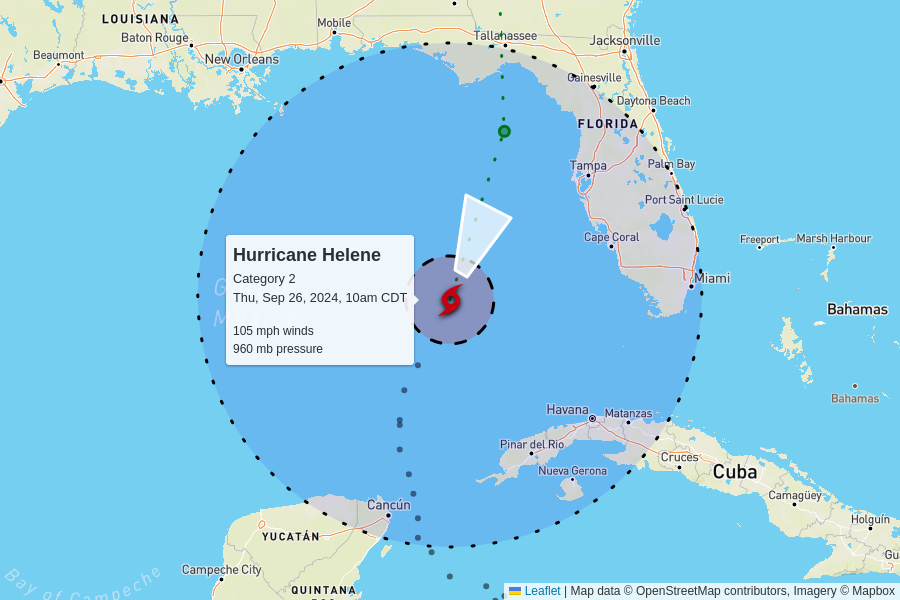
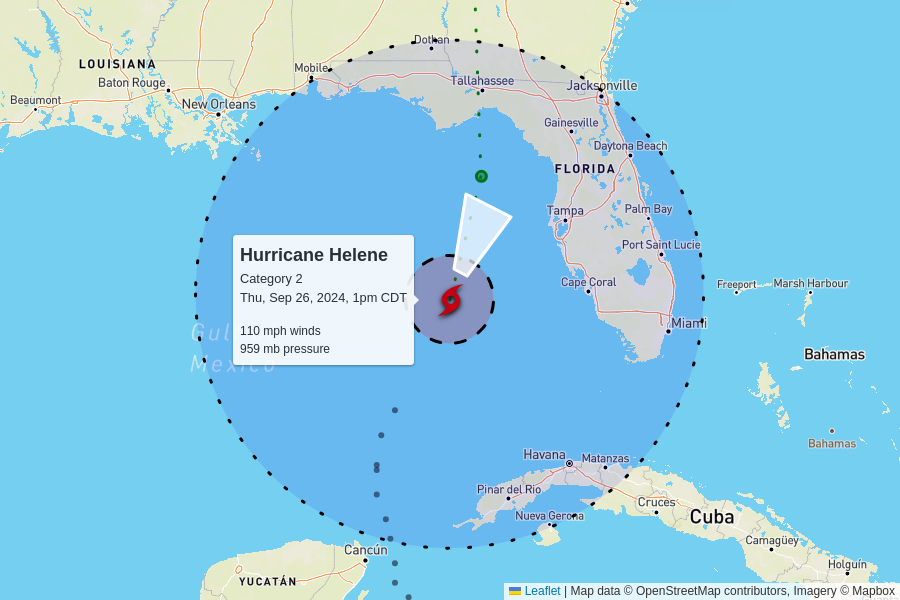
automatic update

diff --git a/docs/index.html b/docs/index.html
@@ -104,7 +104,7 @@
         <td colspan="6" class="storm category-2" >
           <h2>
             Hurricane Helene - Category 2
-            <p class="updated">last updated <span data-time>2024-09-26T15:00:00.000Z</span></p>
+            <p class="updated">last updated <span data-time>2024-09-26T18:00:00.000Z</span></p>
           </h2>
         </td>
       </tr>
@@ -119,10 +119,10 @@
       </tr>
       <tr>
         <td class="spacer"></td>
-        <td>105 mph<br>+5 mph since last update</td>
-        <td>960 mb<br>0 mb since last update</td>
+        <td>110 mph<br>+5 mph since last update</td>
+        <td>959 mb<br>-1 mb since last update</td>
         <td>
-          14 mph to the north-northeast
+          16 mph to the north-northeast
           <br/>
           <span style="display: inline-block; font-size: 1.5em; transform: rotate(25deg);">↑</span>
         </td>
